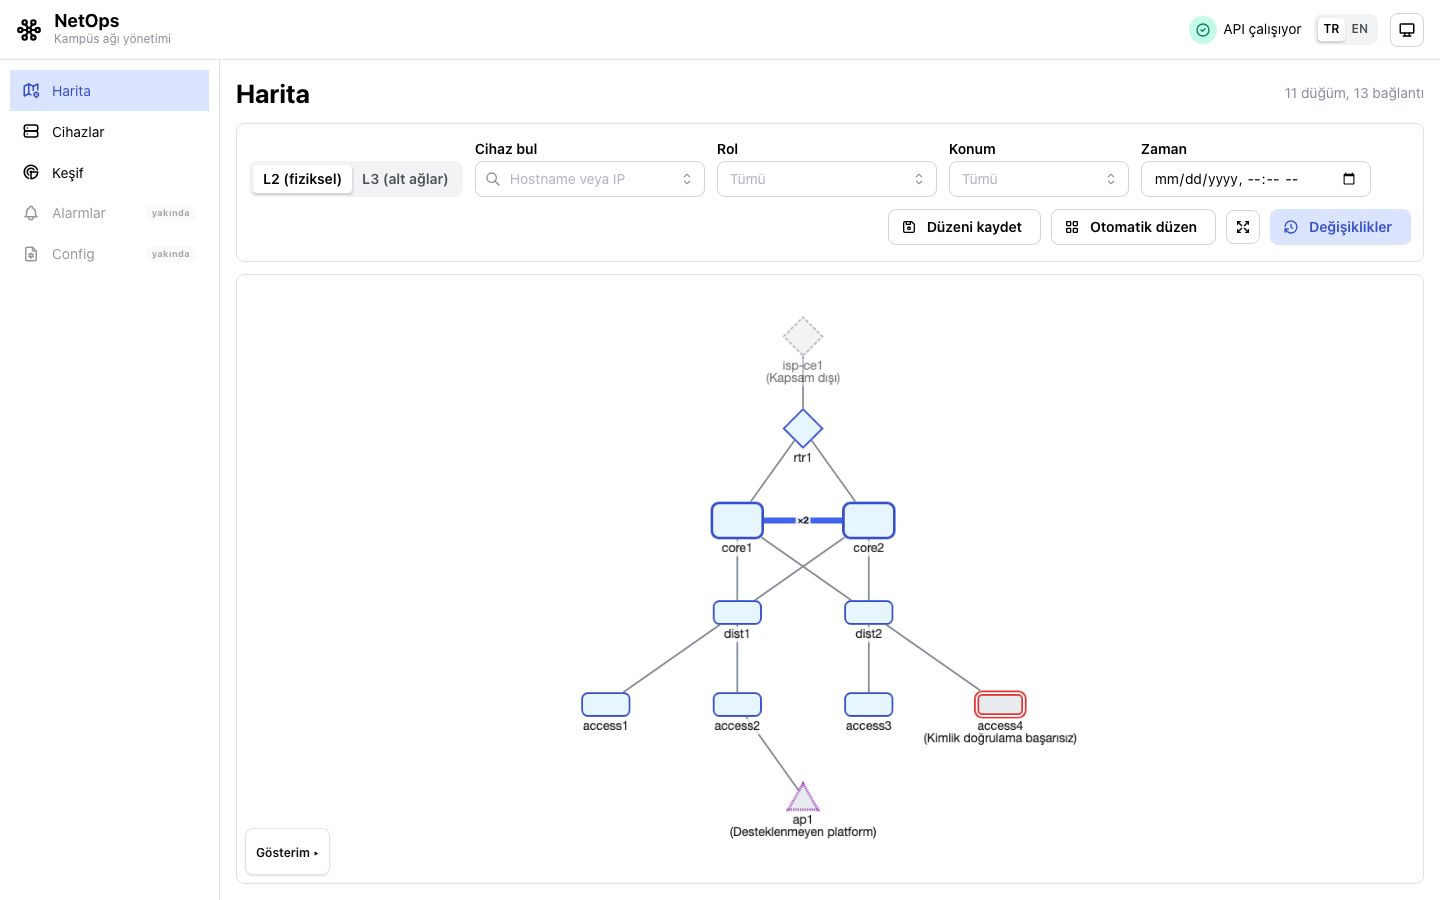
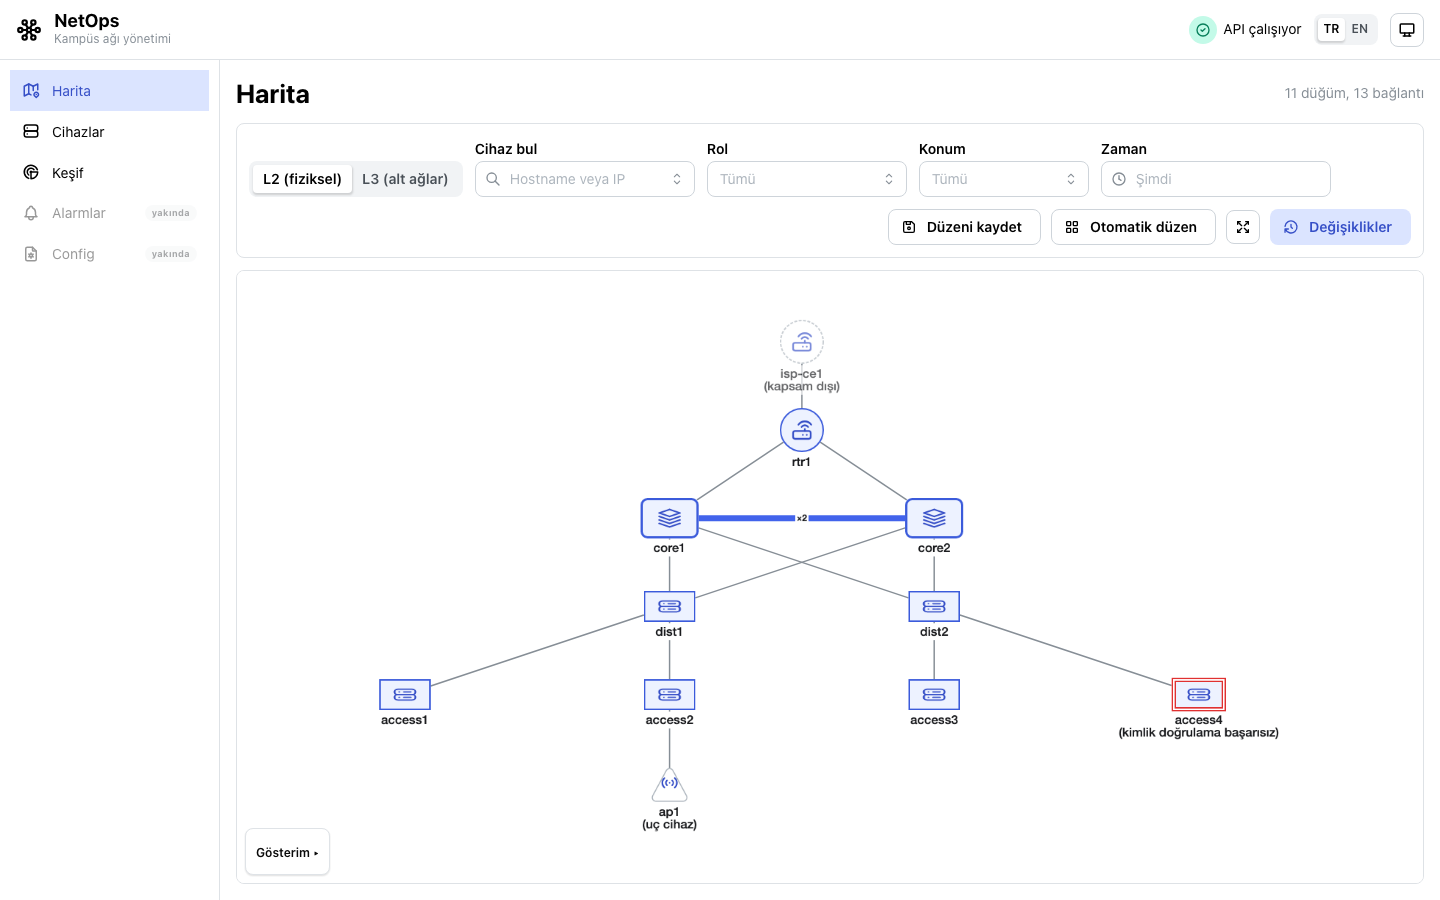
Retake the screenshots and record the map decisions
ADR-0006: map layout and icons, the L3 edge styles, the neutral endpoint
presentation (and why no new status value), the date-time picker.
Screenshots of every page and both maps, light and dark, plus the
historical view.

diff --git a/docs/adr/0006-frontend.md b/docs/adr/0006-frontend.md
@@ -23,7 +23,8 @@ tested.
 | Components | **Mantine** (core + hooks) | See below. |
 | Graph | **Cytoscape.js** | Built for network graphs: thousands of nodes on canvas, per-element classes and a CSS-like stylesheet (shape by device type, border by status), preset positions for our own role layout and saved layouts, headless mode for tests. Alternatives: vis-network (less control over styling, unmaintained periods), React Flow (DOM nodes; heavy beyond a few hundred nodes, built for node editors), D3 (everything by hand). |
 | Translations | i18next + react-i18next | ICU-style interpolation and Turkish/English plural rules; resources are plain JSON a teammate can edit. |
-| Icons | Tabler icons | Mantine's companion icon set; tree-shaken per icon. |
+| Icons | Tabler icons | Mantine's companion icon set; tree-shaken per icon. The map draws the same icons from their SVG sources (`@tabler/icons`). |
+| Dates | `@mantine/dates` + dayjs | Locale-aware date-time picker matching the component library. |
 
 **Why Mantine.** We need dense, accessible building blocks (tables, multi-selects, tags
 inputs, drawers, an app shell) with a dark theme, and we are four students with one
@@ -70,13 +71,48 @@ follows the page language and Turkish turns "switch" into "SWİTCH".
 ### The map
 
 - Node positions come from our own layout (`layoutByRole`): rows by role (out of scope,
-  edge, core, distribution, access, endpoints/APs), each row ordered by the average position
-  of its neighbours above; on L3 the subnets sit between or below their members.
-  Positions an operator saved (`PUT /topology/layout`) override it per node.
-- Status is never colour alone: border style (solid, dashed, double, dotted) and a second
-  caption line carry it, shapes carry the device type, and a legend explains both.
+  edge, core, distribution, access, endpoints/APs), evenly spaced by order. Each node is
+  placed under the average position of its neighbours above, then a row is spread to a
+  minimum gap (`spread`: groups centred on their spot, pushed apart both ways and averaged,
+  so nothing drifts). The column gap follows the canvas's aspect ratio, and the map is fitted
+  with padding (zoom capped for small graphs) on load and on every layer switch. Positions
+  an operator saved (`PUT /topology/layout`) override it per node.
+- Each device type has its own shape **and** a generic Tabler outline icon inside it
+  (router, L3 switch, switch, AP, firewall, WLC, unknown; subnet). No vendor icon artwork
+  or logos. Captions sit on an opaque background in the canvas colour, above the edges, in
+  both themes.
+- L3: edges carry no text. Style says the role: thick solid green for the active HSRP
+  gateway, dashed green for standby, thin grey for plain membership (all in the legend).
+  The gateway is in the subnet's caption ("10.10.10.0/24 · GW .1 (core1)"); HSRP states per
+  device are in the hover tooltip and the side panel. Subnets sit under their active
+  gateway, management subnets (the API's `management_subnet`) in a row of their own that a
+  switch hides.
+- Hover tooltips (HTML, not canvas labels) show ports, EtherChannel members and HSRP states.
+- Status is never colour alone: border style (solid, dashed, double) and a second caption
+  line carry it, and a legend explains shapes, states and link styles.
 - The canvas is not keyboard accessible by nature; the search box (a combobox of all nodes)
   and the side panel give keyboard users the same information.
+
+### Status presentation
+
+- Warning and error colours are for real problems only: `auth_failed` (red) and
+  `unreachable` (orange). Tests check that no other status uses them.
+- Devices discovery deliberately does not log in to (`unsupported_platform`: APs, phones,
+  other endpoints seen only via CDP/LLDP) are shown as **"Uç cihaz (CDP ile görüldü)"** /
+  "Endpoint (seen via CDP)" in a neutral grey, on the map, in the device list and detail,
+  and in discovery results ("Uç cihaz (bağlanılmadı)"). Only the presentation changed: the
+  stored value stays `unsupported_platform`, which states the machine fact (discovery does
+  not log in to this platform). A separate "endpoint" value would repeat what `device_type`
+  already says, and M3 may manage some of these devices another way (SNMP, a WLC), which a
+  presentation can follow without a data migration.
+- Normal discovery outcomes (duplicate addresses, out-of-scope neighbours) are not red.
+
+### Time travel
+
+The map's time selector is Mantine's `DateTimePicker` (`@mantine/dates`, dayjs) in the UI
+language: `DD.MM.YYYY HH:mm`, 24 h and Monday first in Turkish, with presets (Şimdi, 15 dk
+önce, 1 saat önce, Dün bu saat). While a past time is selected, a banner says so
+("Geçmiş görünüm: …") with a button back to now.
 
 ### Accessibility basics
 
